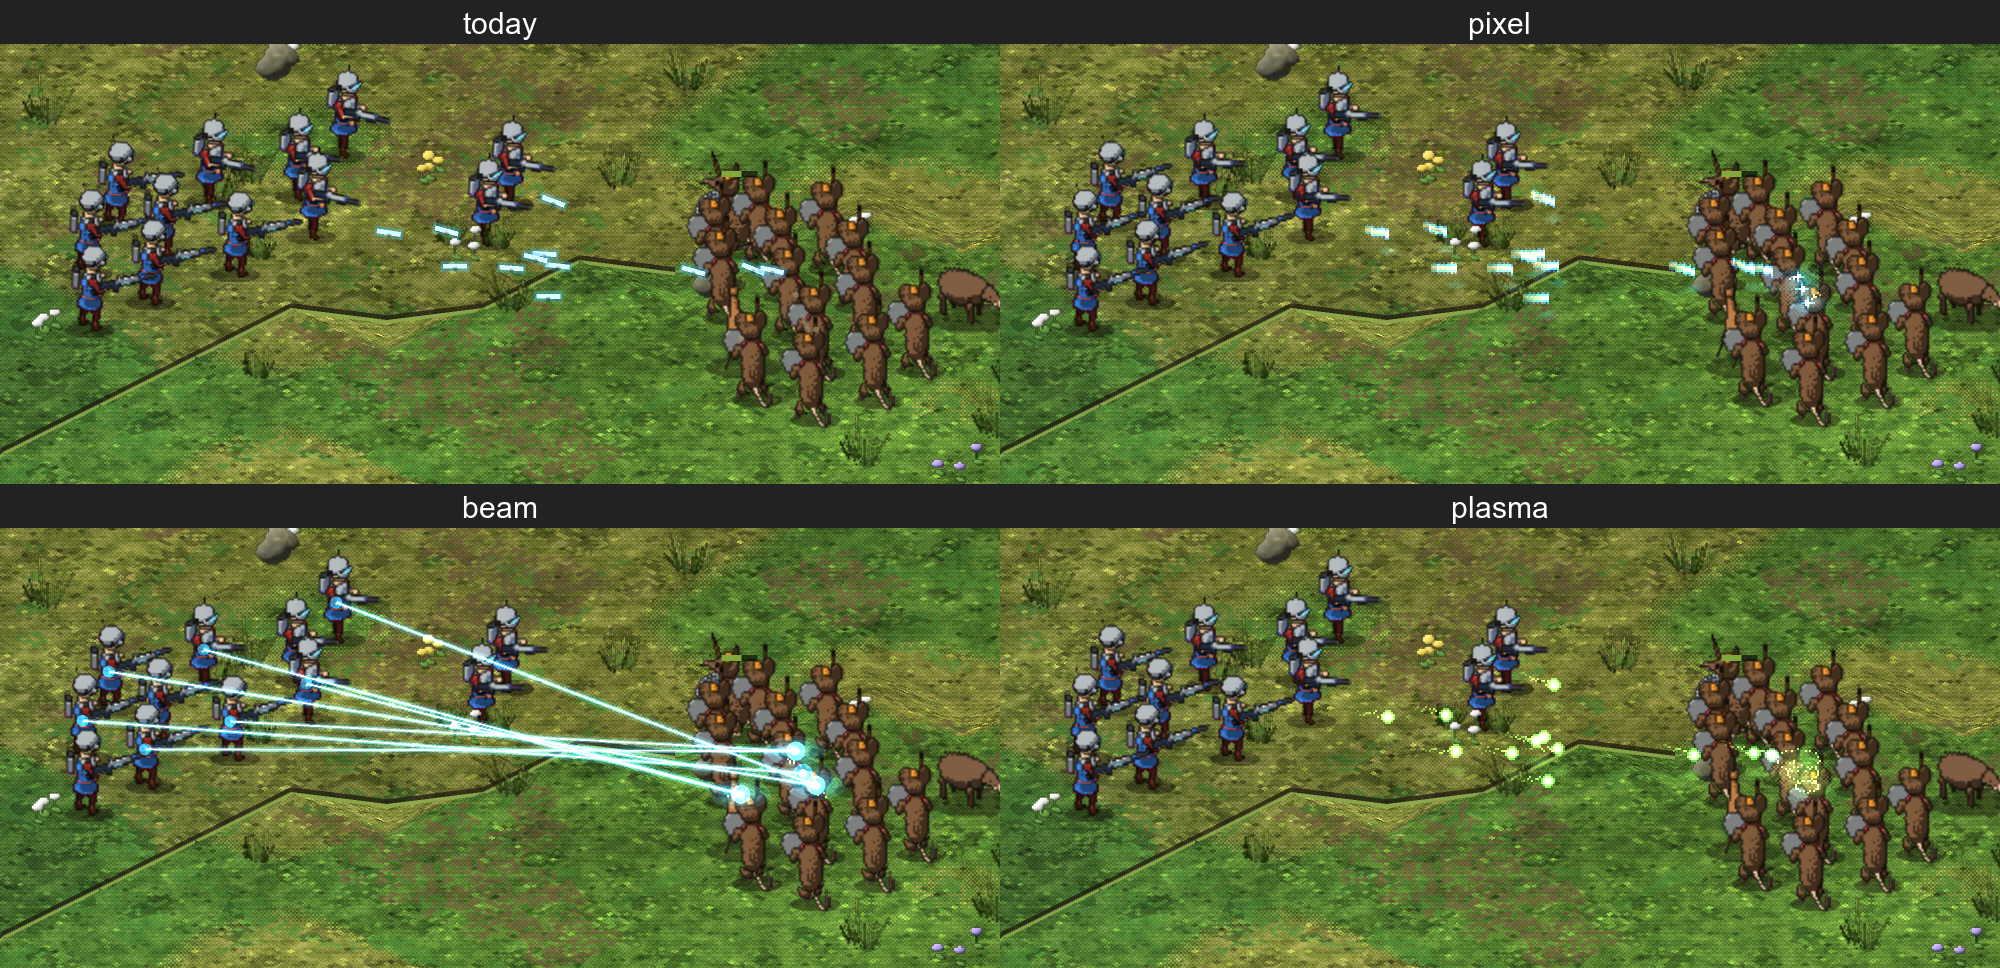
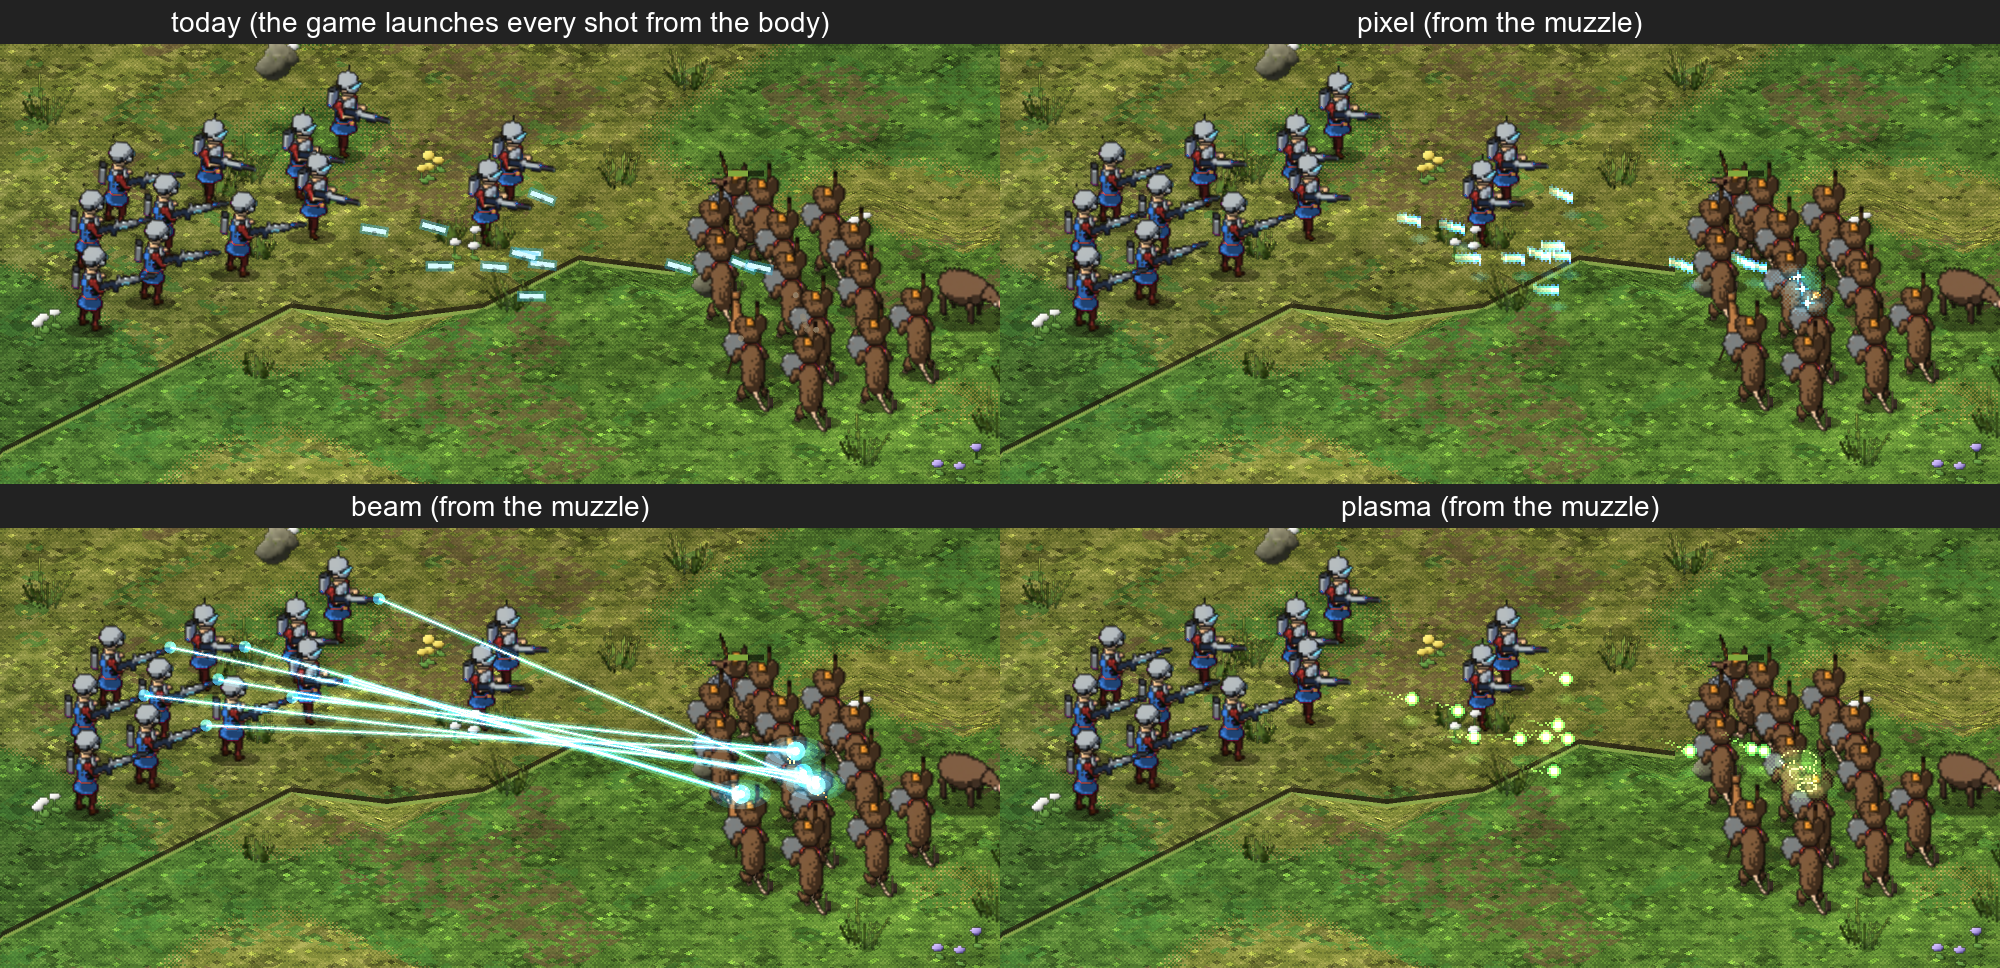
AQ1 feedback: destruction picked (D-171), fidelity a key goal, energy shots from the muzzle
Dominic: "unit and building fidelity is a key goal ... Destruction looks great. FYI those laser
effects weren't coming from their barrel". The study's shots now start at each rifle's muzzle
(the weapon's baked tip, read at draw time); pictures 12 and 13 re-captured. The game itself still
launches every shot from the body: a follow-up.

diff --git a/docs/concepts/art-quality/README.md b/docs/concepts/art-quality/README.md
@@ -1,4 +1,23 @@
-# How far can the art go? (study AQ1, 2026-10-26): waiting on Dominic
+# How far can the art go? (study AQ1, 2026-10-26)
+
+## Dominic's feedback (2026-10-26)
+
+> "The art is looking very interesting. To clarify unit and building fidelity is a key goal, units being more
+> detailed and higher quality. Destruction looks great. FYI those laser effects weren't coming from their barrel"
+
+- **Fidelity is a key goal.** Units and buildings more detailed and higher quality. Direction 1's
+  recommendation below ("not a global 2x") is withdrawn. Next: a fidelity round, concepts that raise unit and
+  building detail (2x bakes for both, finer models and textures, more poses) while keeping the genre's painted,
+  chunky read, at play zoom and close up, with costs and a Steam Deck build.
+- **Destruction: picked** (D-171). Before it's built: Dominic to say go, and to answer the ruin's sim
+  questions: does a ruin block movement, can you build on it, how long does it stay?
+- **The lasers didn't leave the barrel.** True, and not only in the concepts: the game launches every shot,
+  arrows too, from the shooter's body (`sim_debug.gd`: `_body(a) - Vector2(0, 2)`). The study's three looks now
+  start at each rifle's muzzle (the weapon's baked tip through its sprite's transform); pictures 12 and 13 are
+  re-captured. "Today" still shows the game's own launch point. Starting the game's shots at the weapon is a
+  follow-up for the game itself.
+
+---
 
 Dominic, 2026-10-26: "I want to explore how far we can go with art quality ... higher res, better
 destruction, better animations ... sci fi mods ... lasers firing ... while maintaining nostalgia above all
@@ -57,8 +76,8 @@ look like small renders rather than painted sprites; the chunky read of today is
 A middle way worth trying instead: keep units at today's scale and bake **buildings and props** finer
 (they're big, static and where the 2x gain shows most), or bake at 2x only for a "close zoom" level.
 
-**Recommendation:** not a global 2x now. If Dominic likes the close-ups, try buildings-only 2x as the
-next round, and a Deck build with `AOW_ART_SCALE=3.0` to see it on the real screen.
+**Recommendation (before Dominic's feedback):** not a global 2x now; try buildings-only 2x and a Deck build.
+**Superseded:** Dominic made unit and building fidelity a key goal, so the next round raises both (see the top).
 
 ---
 
@@ -95,6 +114,8 @@ frames are generated pictures, not particles, so cheaper than today's.
 - A ruin that stays needs a sim decision (does it block? can you build on it? how long does it stay?).
   The view could keep it as a decoration that fades after a minute or two.
 - Fire and smoke over the stages would stay as today's live parts.
+
+**Picked** by Dominic ("Destruction looks great", D-171); waiting on his go-ahead and the ruin's sim questions.
 
 **Recommendation:** yes. It's the most "classic" of the four (the genre's buildings always burned and
 crumbled in stages), cheap at run time, and it reuses the construction-stage machinery. Pick a stage look,
@@ -150,7 +171,9 @@ weapons (hammers, axes, two-handers) where it reads.
 ## 4. Sci-fi effects (for a future mod)
 
 A real volley in the game: the `scifi_test` mod's pulse troopers firing at charging rats, frozen with their
-shots in the air, then the same shots drawn four ways (the game's effects hidden for the three concepts):
+shots in the air, then the same shots drawn four ways (the game's effects hidden for the three concepts). The
+concepts start at each rifle's muzzle (after Dominic: "those laser effects weren't coming from their barrel");
+"today" leaves from the body, as the game launches every shot.
 
 ![energy weapons, four looks](12-scifi-fx.png)
 ![the hits close up](13-scifi-fx-close.png)
@@ -185,12 +208,12 @@ hero or super weapon if ever. Build as a `style` in `shots.json`, drawn by `comb
 
 | Direction | Nostalgia | Cost | Recommendation |
 |---|---|---|---|
-| 1 Higher resolution | at risk at 2x | bake ~2x, memory 2x, atlas needs pages | not globally; try buildings-only 2x and a Deck build |
-| 2 Destruction in stages | strong | +4-6 s cold (estimate), no frame cost | yes, next |
+| 1 Higher resolution | at risk at 2x | bake ~2x, memory 2x, atlas needs pages | fidelity is a key goal (Dominic): a fidelity round next |
+| 2 Destruction in stages | strong | +4-6 s cold (estimate), no frame cost | picked (D-171), waiting on go-ahead |
 | 3 Deaths in 3D, follow-through | strong | a few seconds cold (estimate), no frame cost | deaths yes; follow-through on heavy weapons |
 | 4 Sci-fi effects | pixel: strong, beams: weak | none to speak of | pixel bolts + plasma as `shots.json` styles |
 
-Dominic picks; nothing gets built before that.
+Nothing gets built before Dominic says go.
 
 ## Frame time
 

diff --git a/archive/journal/2026-10-26-art-quality-study.md b/archive/journal/2026-10-26-art-quality-study.md
@@ -20,9 +20,23 @@ today's look, with costs. Write-up and pictures: `docs/concepts/art-quality/READ
 4. **Sci-fi effects.** A real volley of the `scifi_test` mod's pulse troopers, frozen, drawn four ways: today,
    pixel bolts on the art grid with starburst hits and light pools, full laser beams, plasma balls.
 
+## Dominic's feedback (later the same day)
+
+"The art is looking very interesting. To clarify unit and building fidelity is a key goal, units being more
+detailed and higher quality. Destruction looks great. FYI those laser effects weren't coming from their barrel".
+
+- Destruction picked (D-171); building waits on his go-ahead and the ruin's sim questions (block? build on it?
+  how long?).
+- Fidelity is a key goal: the next round raises unit and building detail; "not a global 2x" is withdrawn.
+- The barrel: he was right, and it goes deeper than the study. The game launches every shot from the
+  shooter's body (`_body(a) - (0, 2)` in sim_debug), arrows included; the pulse bolts just made it obvious. The
+  concepts now start at each rifle's muzzle (the weapon's baked tip through its sprite's transform, read at draw
+  time: the first try read it once and the troopers had stepped on before the picture, so half the beams still
+  came out of their chests). Re-captured: `archive/images/2026-10-26/14-` and `15-art-quality-scifi-fx-muzzles*.png`.
+
 ## Decisions
 
-None yet: Dominic picks. Claude's recommendations: destruction in stages next; deaths in 3D for every body;
+D-171 (destruction picked). Before the feedback, Dominic was to pick. Claude's recommendations: destruction in stages next; deaths in 3D for every body;
 pixel bolts and plasma as `shots.json` styles for the sci-fi mod; no global 2x (maybe buildings-only 2x,
 and a Deck build with the flag to see it on the real screen).
 

diff --git a/archive/decisions.md b/archive/decisions.md
@@ -1180,3 +1180,13 @@ fine". The dead aren't tied to the facing they fell in: `corpse.turn` (8 degrees
 on its spot per facing before it bakes, its shadow with it. The frog's is [0, -45, -30, 0, 0, 30, -30, 0], picked from
 round HF3 (`tests/sheets/frog_fall_hf3.json`: the sprawl turned -60 to +60 in every facing); no facing now sees it end
 on from behind.
+
+**D-171, 2026-10-26: Destruction goes the way of study AQ1's direction 2: buildings break up in baked stages.** Dominic on
+the art-quality study (`docs/concepts/art-quality/`): "Destruction looks great". The pick: a building broken up in 3D
+before it bakes (pieces fall from the top, others tilt and scorch, rubble heaps from its own materials, walls become
+ragged stumps with breaches), five stages from whole to ruin, the fall with pixel dust, and a ruin that stays; it would
+replace the drawn cracks, keeping today's fire and smoke. Not built yet: Claude asks Dominic to go ahead, with the
+ruin's sim questions (does it block, can it be built on, how long it stays). (Numbered D-171: the Lobster port's
+branch uses D-167 to D-170.) In the same note Dominic set unit and building fidelity as a key goal ("units being more
+detailed and higher quality"): direction 1's "not a global 2x" no longer stands as the recommendation; a fidelity round
+comes next.

diff --git a/archive/timeline.md b/archive/timeline.md
@@ -140,3 +140,4 @@ One line per moment worth remembering. Newest at the bottom.
 - **2026-10-20:** D-165: the frogs die laid down in 3D (the sprawl, baked per recipe with its own shadow); placement rules D1/D2 for corpses; rig3d and geom moved into the game.
 - **2026-10-20:** D-166: the dead frog lies turned per facing (round HF3), so no view sees its sprawl end on from behind.
 - **2026-10-26:** Art-quality study AQ1 (concepts, not in the game): higher resolution (1.5x/2x behind `AOW_ART_SCALE`), buildings breaking up in baked stages with pixel dust, deaths laid down in 3D and a follow-through hold, sci-fi energy shots four ways; Dominic to pick (`docs/concepts/art-quality/`).
+- **2026-10-26:** Dominic on AQ1: fidelity of units and buildings is a key goal; "Destruction looks great" (D-171, building waits on his go-ahead); the study's energy shots now leave the rifle's muzzle (the game still launches every shot from the body).
